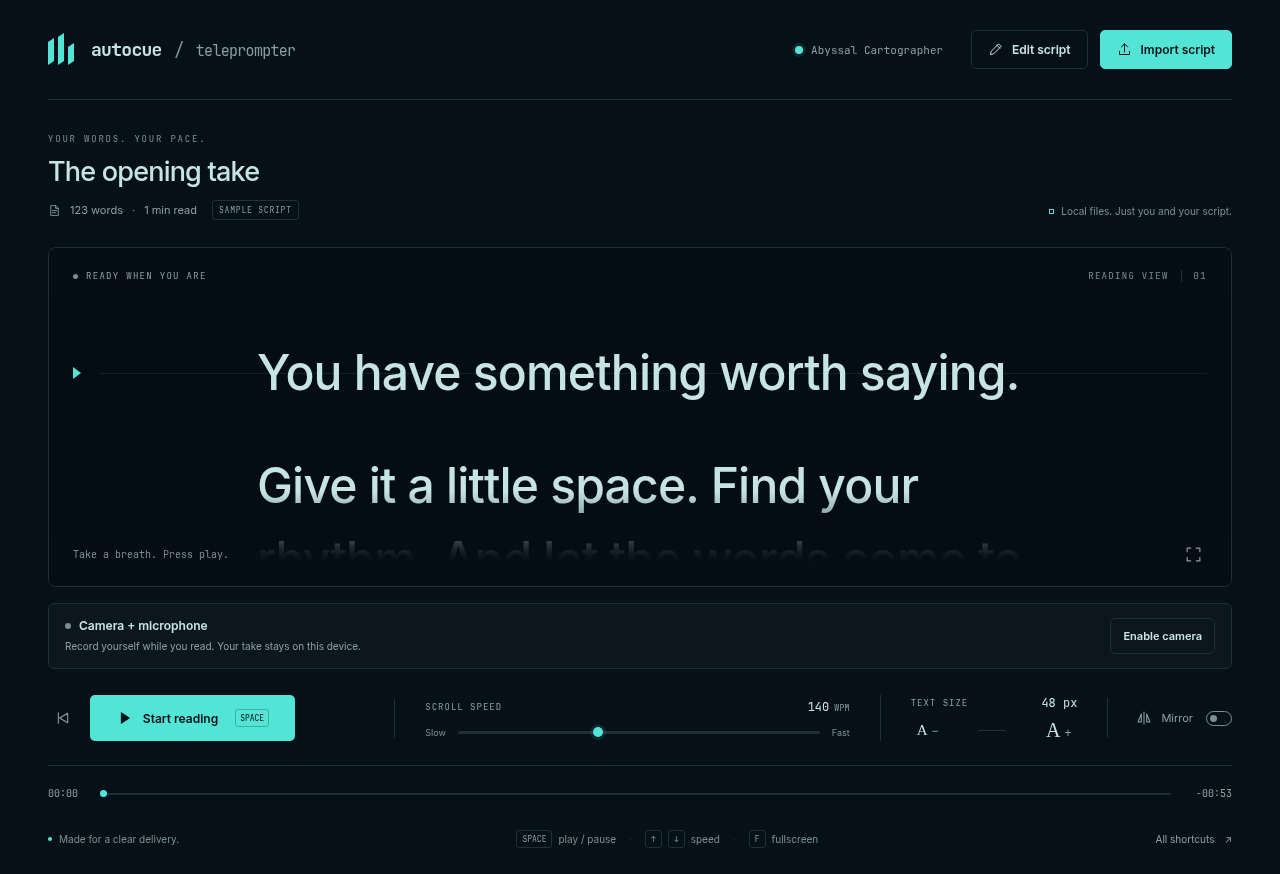
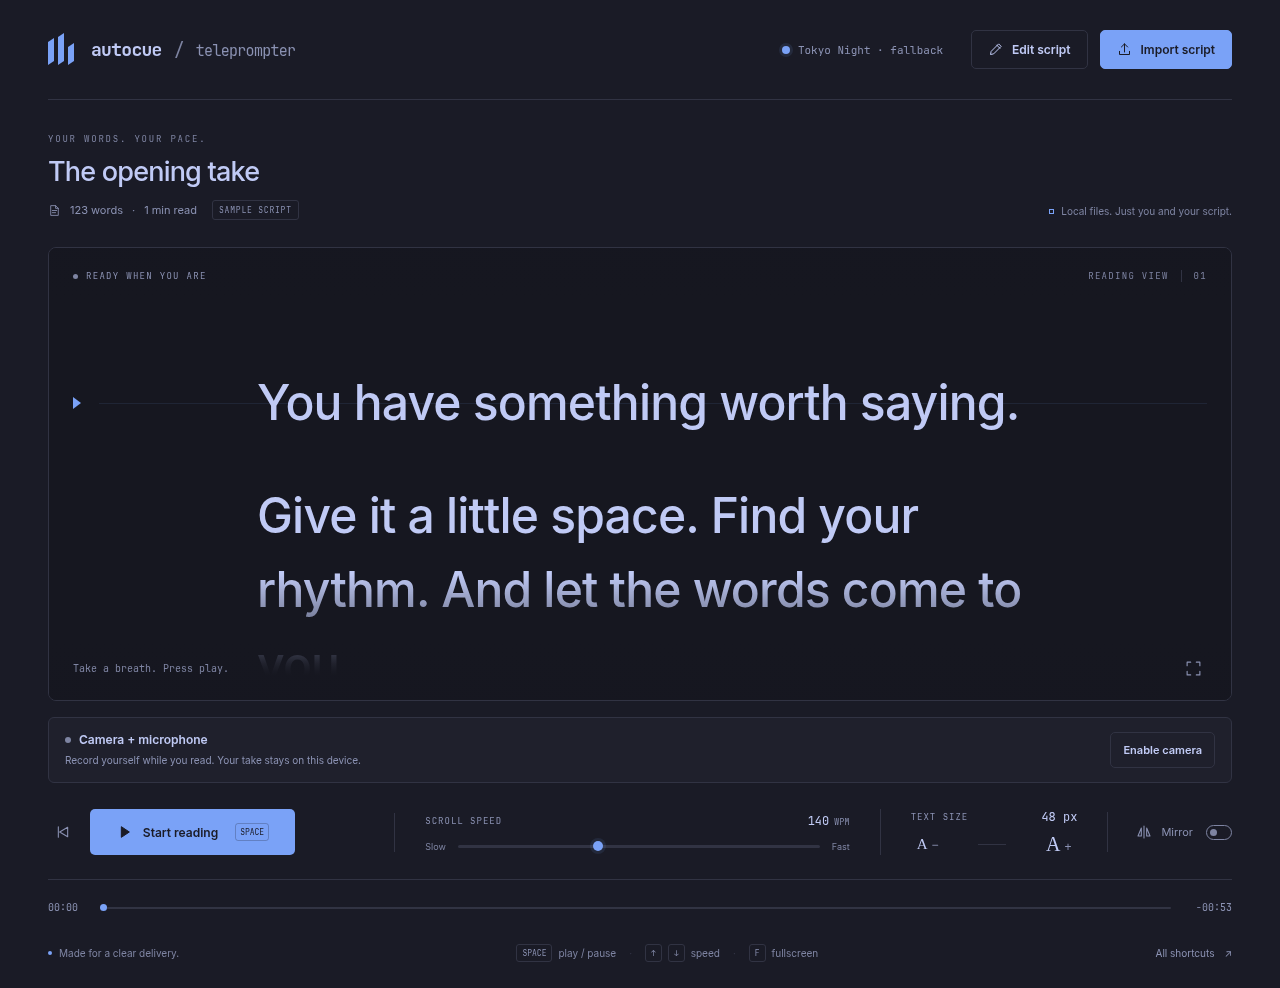
Show default Tokyo Night theme in README screenshot

diff --git a/README.md b/README.md
@@ -2,7 +2,7 @@
 
 A simple local teleprompter for reading scripts at your own pace. Import a file, adjust the reading speed, and press **Space**. The interface follows your active Omarchy theme automatically.
 
-![autocue showing the sample script, reading controls, and optional camera recording in an Omarchy theme](docs/autocue.png)
+![autocue showing the sample script, reading controls, and optional camera recording in the default Tokyo Night theme](docs/autocue.png)
 
 ## Run
 
